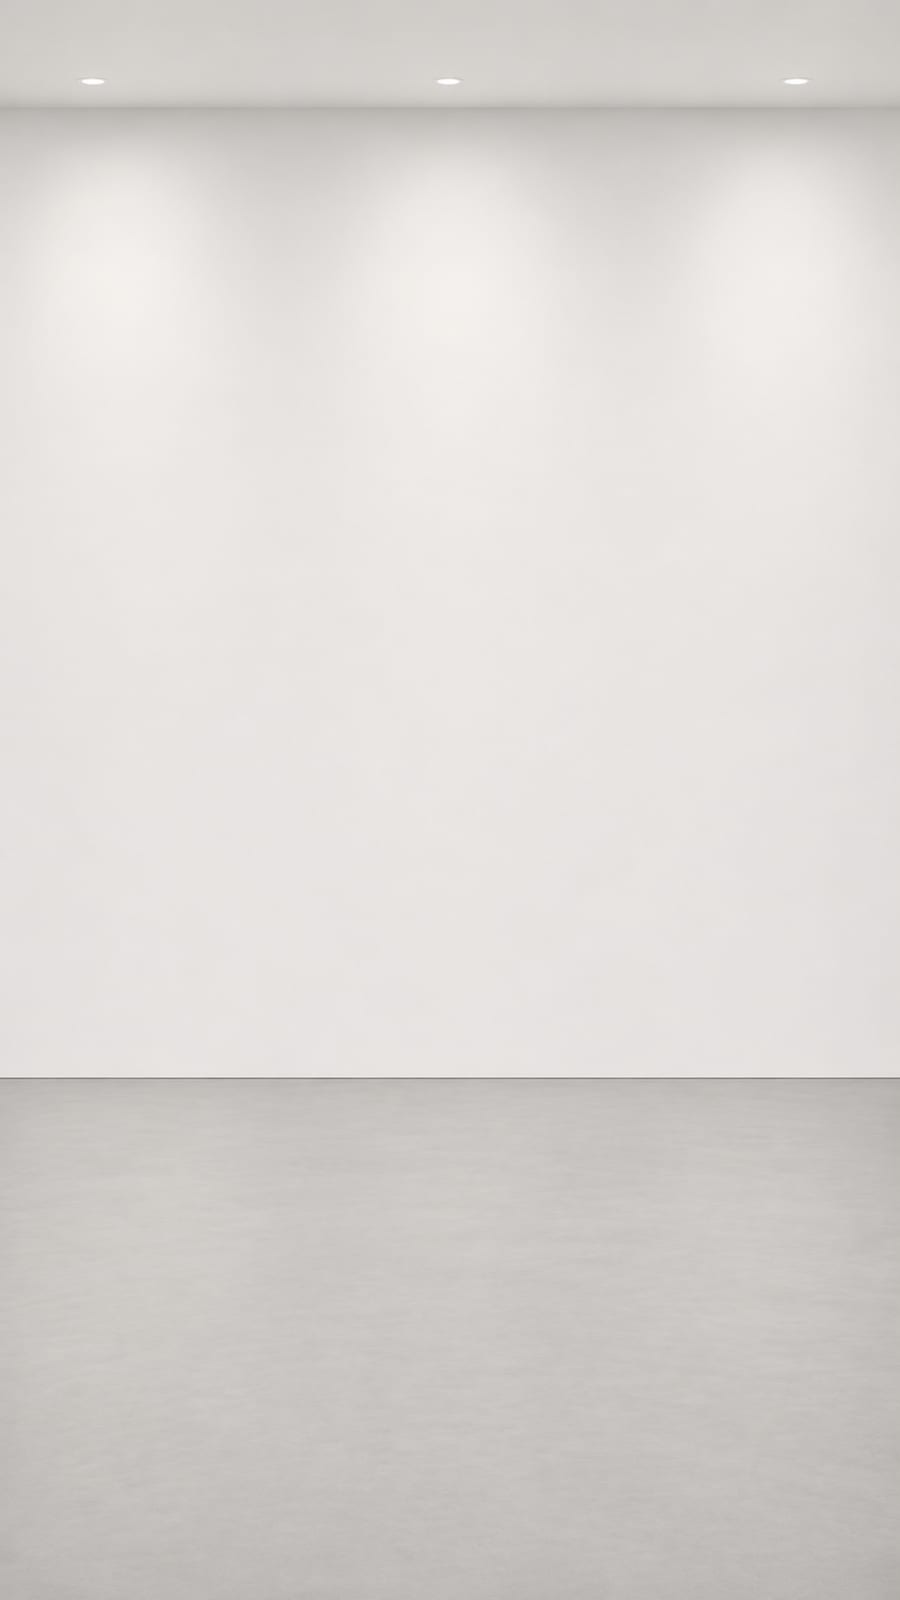
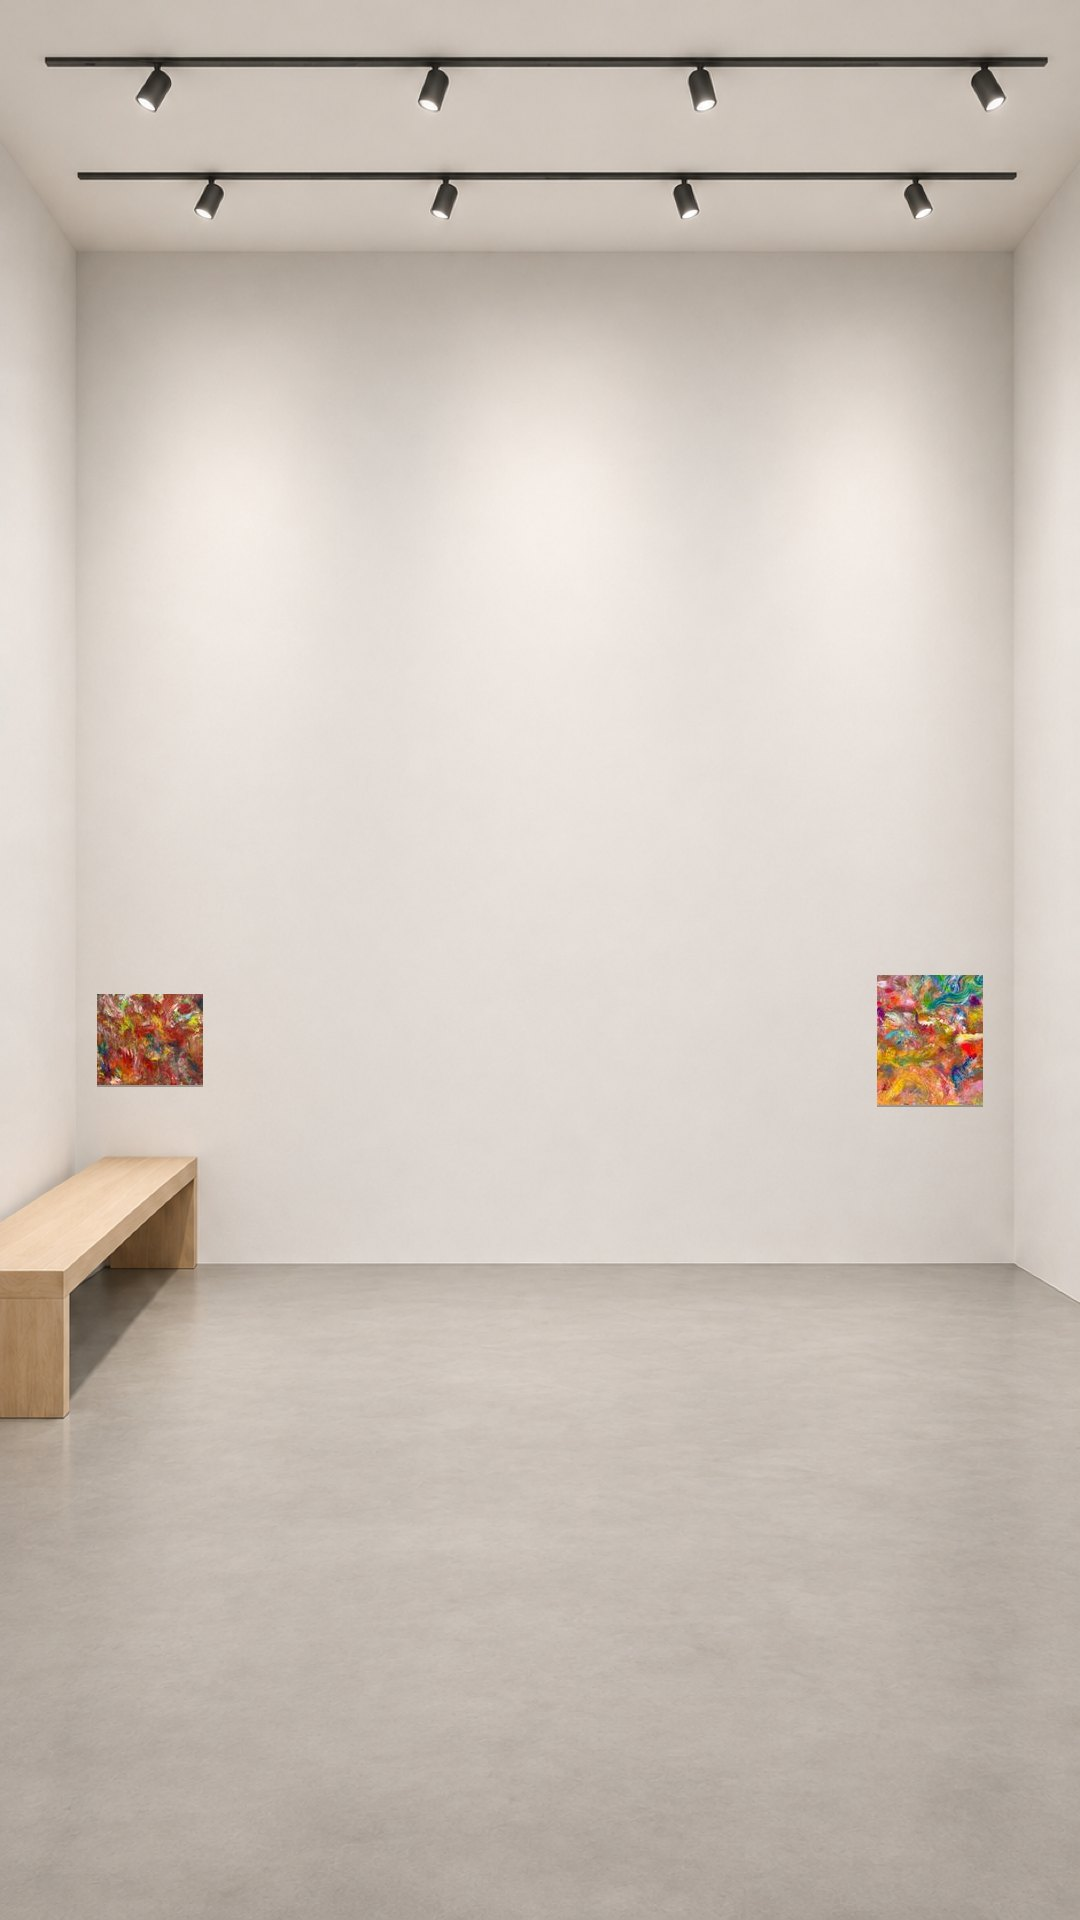
受付の背景を第 2 案：トラック照明・ベンチ・コンクリートの床のある白い展示室（Codex 生成）に、実物の絵 2 点（頂・Harmoney）を写真合成で掛けた。スマホは絵が映る高さに切り出し

diff --git a/src/ui/page.css b/src/ui/page.css
@@ -157,7 +157,7 @@ body.paper:has(.cg) { overflow: hidden; overscroll-behavior: none; }
 /* 人の部分は「窓」（11-06 深夜、作家「ゲームは下に線や窓があって、ここが人の部分だと分かる」）：薄い紙色のパネルと下のヘアライン。胸で切れた画像がパネルの縁で収まる */
 .cg-host { grid-area: host; margin: 0 0 6px; min-height: 0; display: flex; flex-direction: column; align-items: center; position: relative; }
 /* 窓の中は白い展示室の壁（11-07 作家「ギャラリーに来たと思える背景を女の子の後ろに」）。床の線が人の足元に来るよう下寄せ */
-.cg-host::before { content: ""; position: absolute; left: 50%; bottom: 0; transform: translateX(-50%); width: min(100%, 360px); height: 100%; background: var(--bg-2) url('/concierge/wall/wall-tall.jpg') center 78% / cover no-repeat; border-radius: 14px; border: 1px solid var(--line); box-shadow: inset 0 0 0 1px rgba(255,255,255,.6); }
+.cg-host::before { content: ""; position: absolute; left: 50%; bottom: 0; transform: translateX(-50%); width: min(100%, 360px); height: 100%; background: var(--bg-2) url('/concierge/wall/wall-tall.jpg') center 62% / cover no-repeat; border-radius: 14px; border: 1px solid var(--line); box-shadow: inset 0 0 0 1px rgba(255,255,255,.6); }
 @supports (background-image: url('a.webp')) { .cg-host::before { background-image: url('/concierge/wall/wall-tall.webp'); } }
 @media (min-width: 640px) { .cg-host::before { width: min(100%, 520px); background-image: url('/concierge/wall/wall-wide.jpg'); } @supports (background-image: url('a.webp')) { .cg-host::before { background-image: url('/concierge/wall/wall-wide.webp'); } } }
 .cg-faces { z-index: 1; }
